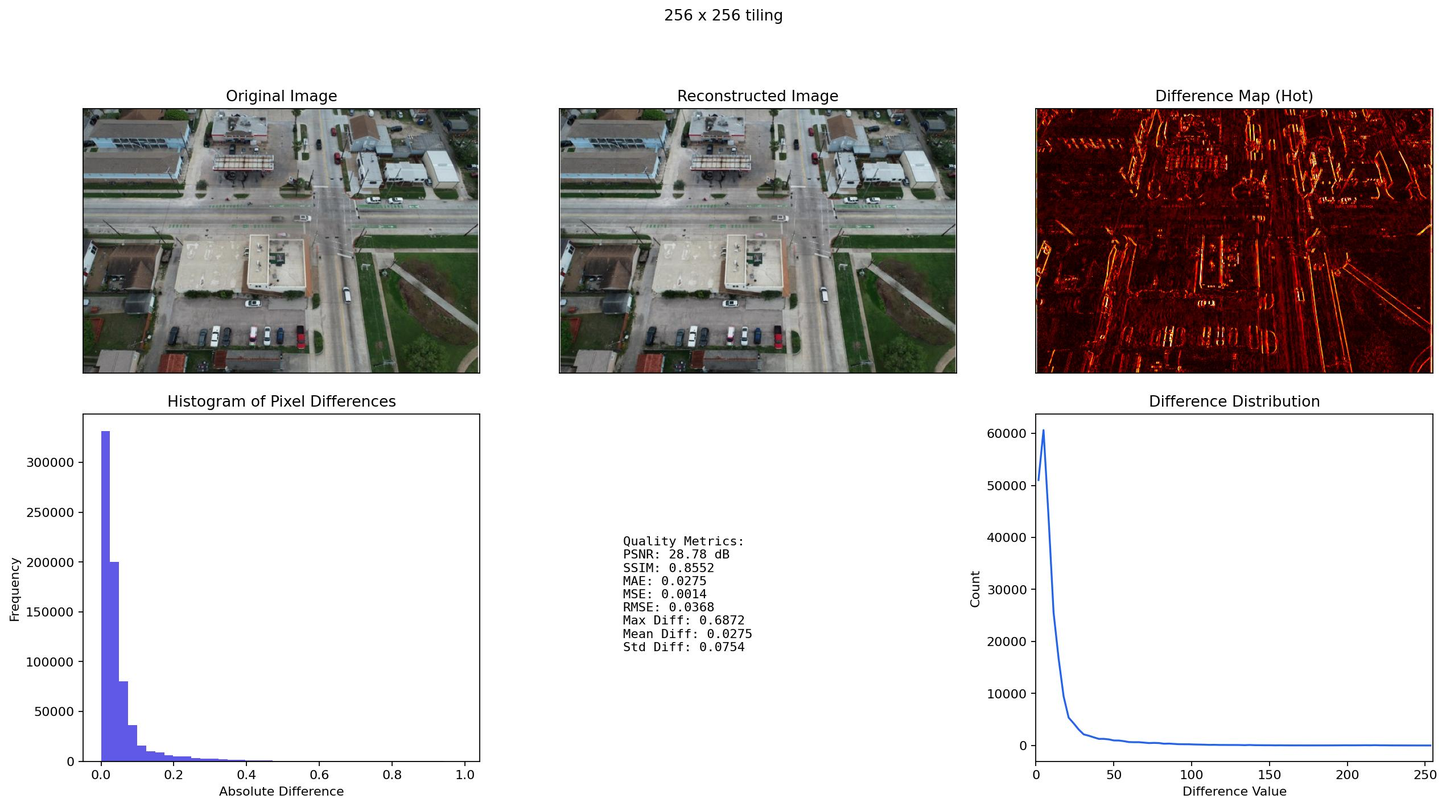
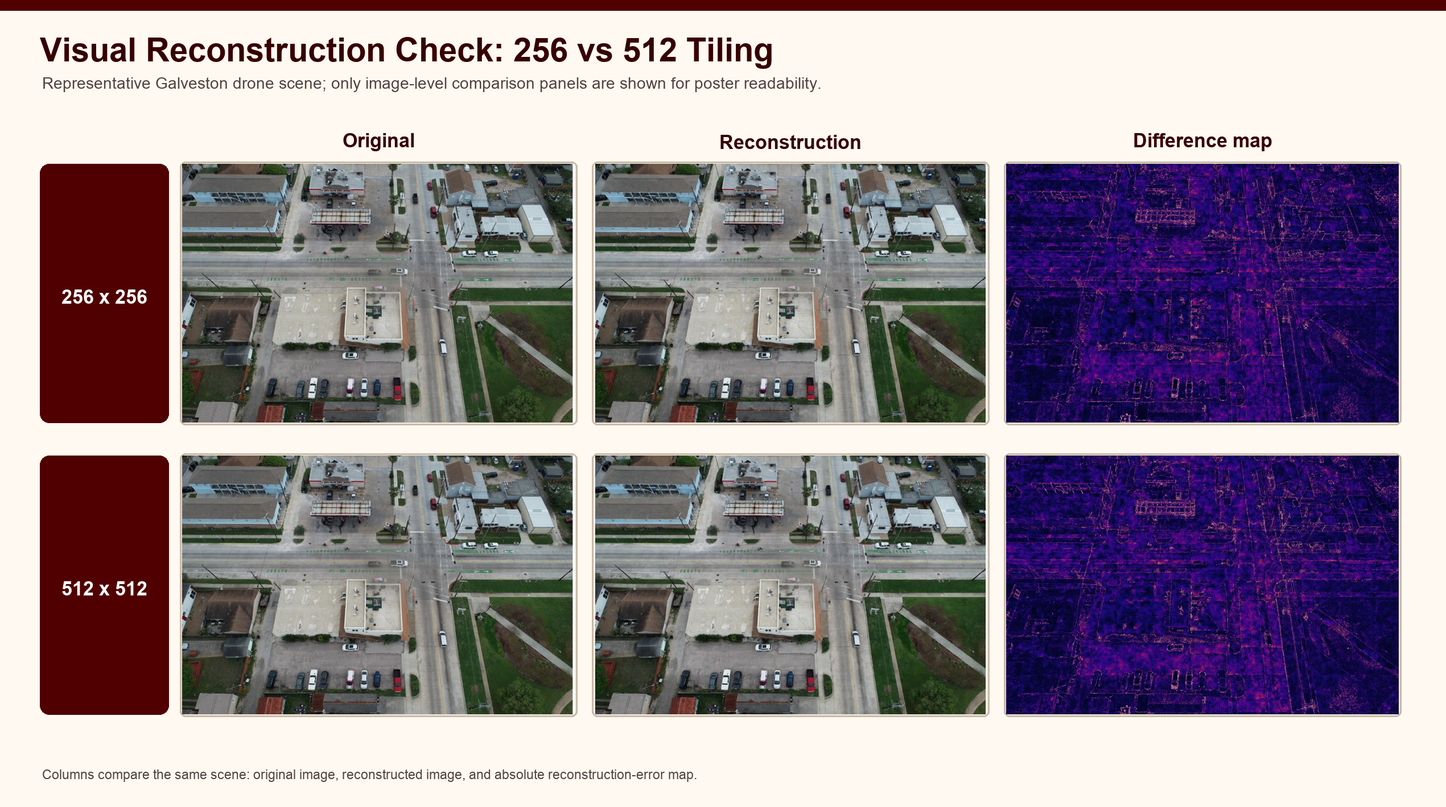
Update poster qualitative comparison panel

diff --git a/scripts/generate_qualitative_visual_panel.py b/scripts/generate_qualitative_visual_panel.py
@@ -1,0 +1,195 @@
+#!/usr/bin/env python3
+"""Build a poster-ready 256-vs-512 qualitative visual comparison panel."""
+
+from __future__ import annotations
+
+from pathlib import Path
+
+from PIL import Image, ImageDraw, ImageFont
+
+
+REPO = Path(__file__).resolve().parents[1]
+SRC_DIR = REPO / "results/2026-05-15-yifan-selected-256-512-n50/visual_examples_small"
+OUT_DIR = REPO / "imgs"
+
+TILE256_COMPARISON = SRC_DIR / "100_0005_0001_tile256_comparison.jpg"
+TILE512_COMPARISON = SRC_DIR / "100_0005_0001_tile512_comparison.jpg"
+TILE256_HEATMAP = SRC_DIR / "100_0005_0001_tile256_error_heatmap.jpg"
+TILE512_HEATMAP = SRC_DIR / "100_0005_0001_tile512_error_heatmap.jpg"
+
+PANEL_PNG = OUT_DIR / "sc26_qualitative_256_512_visual_comparison.png"
+PANEL_JPG = OUT_DIR / "sc26_qualitative_256_512_visual_comparison.jpg"
+PAPER_FIGURES = [
+    REPO / "paper/figures/tile256_poster_panel.jpg",
+    REPO / "paper/submission/figures/tile256_poster_panel.jpg",
+]
+
+WIDTH, HEIGHT = 2541, 1419
+MAROON = "#500000"
+MAROON_DARK = "#360000"
+MUTED = "#51433F"
+CREAM = "#FFF9F1"
+PANEL_BG = "#FFFFFF"
+BORDER = "#CBB8A5"
+TAN = "#F2E3D0"
+
+
+def color(hex_color: str) -> tuple[int, int, int]:
+    hex_color = hex_color.lstrip("#")
+    return tuple(int(hex_color[i : i + 2], 16) for i in (0, 2, 4))
+
+
+def font(size: int, bold: bool = False) -> ImageFont.FreeTypeFont:
+    names = []
+    if bold:
+        names.extend(
+            [
+                "/System/Library/Fonts/Supplemental/Arial Bold.ttf",
+                "/System/Library/Fonts/Supplemental/Helvetica Bold.ttf",
+            ]
+        )
+    names.extend(
+        [
+            "/System/Library/Fonts/Supplemental/Arial.ttf",
+            "/System/Library/Fonts/Supplemental/Helvetica.ttf",
+        ]
+    )
+    for name in names:
+        try:
+            return ImageFont.truetype(name, size=size)
+        except OSError:
+            pass
+    return ImageFont.load_default()
+
+
+F_TITLE = font(58, True)
+F_SUB = font(28)
+F_HEAD = font(34, True)
+F_ROW = font(34, True)
+F_SMALL = font(23)
+
+
+def crop_comparison(path: Path) -> tuple[Image.Image, Image.Image]:
+    with Image.open(path) as img:
+        rgb = img.convert("RGB")
+    w, h = rgb.size
+    third = w // 3
+    original = rgb.crop((0, 0, third, h))
+    reconstruction = rgb.crop((third, 0, third * 2, h))
+    return original, reconstruction
+
+
+def cover(img: Image.Image, size: tuple[int, int]) -> Image.Image:
+    target_w, target_h = size
+    src_w, src_h = img.size
+    scale = max(target_w / src_w, target_h / src_h)
+    resized = img.resize((round(src_w * scale), round(src_h * scale)), Image.Resampling.LANCZOS)
+    left = max(0, (resized.width - target_w) // 2)
+    top = max(0, (resized.height - target_h) // 2)
+    return resized.crop((left, top, left + target_w, top + target_h))
+
+
+def fit(img: Image.Image, size: tuple[int, int]) -> Image.Image:
+    target_w, target_h = size
+    src_w, src_h = img.size
+    scale = min(target_w / src_w, target_h / src_h)
+    resized = img.resize((round(src_w * scale), round(src_h * scale)), Image.Resampling.LANCZOS)
+    canvas = Image.new("RGB", size, color(PANEL_BG))
+    canvas.paste(resized, ((target_w - resized.width) // 2, (target_h - resized.height) // 2))
+    return canvas
+
+
+def draw_centered(draw: ImageDraw.ImageDraw, box: tuple[int, int, int, int], text: str, fnt: ImageFont.ImageFont, fill: str) -> None:
+    bbox = draw.textbbox((0, 0), text, font=fnt)
+    tw = bbox[2] - bbox[0]
+    th = bbox[3] - bbox[1]
+    x1, y1, x2, y2 = box
+    draw.text((x1 + (x2 - x1 - tw) / 2, y1 + (y2 - y1 - th) / 2), text, font=fnt, fill=color(fill))
+
+
+def add_image_frame(
+    canvas: Image.Image,
+    draw: ImageDraw.ImageDraw,
+    img: Image.Image,
+    box: tuple[int, int, int, int],
+    *,
+    mode: str = "cover",
+) -> None:
+    x1, y1, x2, y2 = box
+    draw.rounded_rectangle((x1 - 4, y1 - 4, x2 + 4, y2 + 4), radius=10, fill=color("#F4EEE8"), outline=color(BORDER), width=3)
+    prepared = cover(img, (x2 - x1, y2 - y1)) if mode == "cover" else fit(img, (x2 - x1, y2 - y1))
+    canvas.paste(prepared, (x1, y1))
+
+
+def build_panel() -> Image.Image:
+    original_256, recon_256 = crop_comparison(TILE256_COMPARISON)
+    _, recon_512 = crop_comparison(TILE512_COMPARISON)
+    heat_256 = Image.open(TILE256_HEATMAP).convert("RGB")
+    heat_512 = Image.open(TILE512_HEATMAP).convert("RGB")
+
+    canvas = Image.new("RGB", (WIDTH, HEIGHT), color(CREAM))
+    draw = ImageDraw.Draw(canvas)
+
+    draw.rectangle((0, 0, WIDTH, 18), fill=color(MAROON))
+    draw.text((70, 55), "Visual Reconstruction Check: 256 vs 512 Tiling", font=F_TITLE, fill=color(MAROON_DARK))
+    draw.text(
+        (74, 130),
+        "Representative Galveston drone scene; only image-level comparison panels are shown for poster readability.",
+        font=F_SUB,
+        fill=color(MUTED),
+    )
+
+    left, top = 70, 215
+    row_label_w = 250
+    gap = 34
+    col_w = 690
+    img_h = 455
+    header_h = 58
+    row_gap = 58
+    cols = [
+        ("Original", original_256, "cover"),
+        ("Reconstruction", recon_256, "cover"),
+        ("Difference map", heat_256, "cover"),
+    ]
+    headers_y = top
+    for ci, (label, _, _) in enumerate(cols):
+        x = left + row_label_w + ci * (col_w + gap)
+        draw_centered(draw, (x, headers_y, x + col_w, headers_y + header_h), label, F_HEAD, MAROON_DARK)
+
+    def row(y: int, label: str, recon: Image.Image, heatmap: Image.Image) -> None:
+        draw.rounded_rectangle((left, y, left + row_label_w - 24, y + img_h), radius=16, fill=color(MAROON), outline=color(MAROON))
+        draw_centered(draw, (left, y, left + row_label_w - 24, y + img_h), label, F_ROW, "#FFFFFF")
+        imgs = [original_256, recon, heatmap]
+        for ci, img in enumerate(imgs):
+            x = left + row_label_w + ci * (col_w + gap)
+            add_image_frame(canvas, draw, img, (x, y, x + col_w, y + img_h), mode="cover")
+
+    first_y = top + header_h + 15
+    second_y = first_y + img_h + row_gap
+    row(first_y, "256 x 256", recon_256, heat_256)
+    row(second_y, "512 x 512", recon_512, heat_512)
+
+    draw.text(
+        (74, HEIGHT - 70),
+        "Columns compare the same scene: original image, reconstructed image, and absolute reconstruction-error map.",
+        font=F_SMALL,
+        fill=color(MUTED),
+    )
+    return canvas
+
+
+def main() -> None:
+    OUT_DIR.mkdir(parents=True, exist_ok=True)
+    panel = build_panel()
+    panel.save(PANEL_PNG)
+    panel.save(PANEL_JPG, quality=95, subsampling=0)
+    for path in PAPER_FIGURES:
+        path.parent.mkdir(parents=True, exist_ok=True)
+        panel.save(path, quality=95, subsampling=0)
+        print(path.relative_to(REPO))
+    print(PANEL_PNG.relative_to(REPO))
+    print(PANEL_JPG.relative_to(REPO))
+
+
+if __name__ == "__main__":
+    main()

diff --git a/imgs/README.md b/imgs/README.md
@@ -9,9 +9,11 @@ result tables in `results/`.
 | `sc26_cdc_performance_dashboard.png` | Four-panel dashboard for runtime, peak GPU memory, compression-quality tradeoff, and human-label detection. |
 | `sc26_gh200_h200_hardware_comparison.png` | GH200 vs H200 reconstruction comparison from matched step sweeps. |
 | `sc26_bottleneck_proxy_heatmap.png` | Bottleneck proxy heatmap from available metrics. This is not a hardware telemetry plot. |
+| `sc26_qualitative_256_512_visual_comparison.png` | Poster-ready qualitative image comparison for 256 x 256 and 512 x 512 tiling, without histogram or curve panels. |
 
 Regenerate:
 
 ```bash
 python3 scripts/generate_sc26_figures.py
+python3 scripts/generate_qualitative_visual_panel.py
 ```
